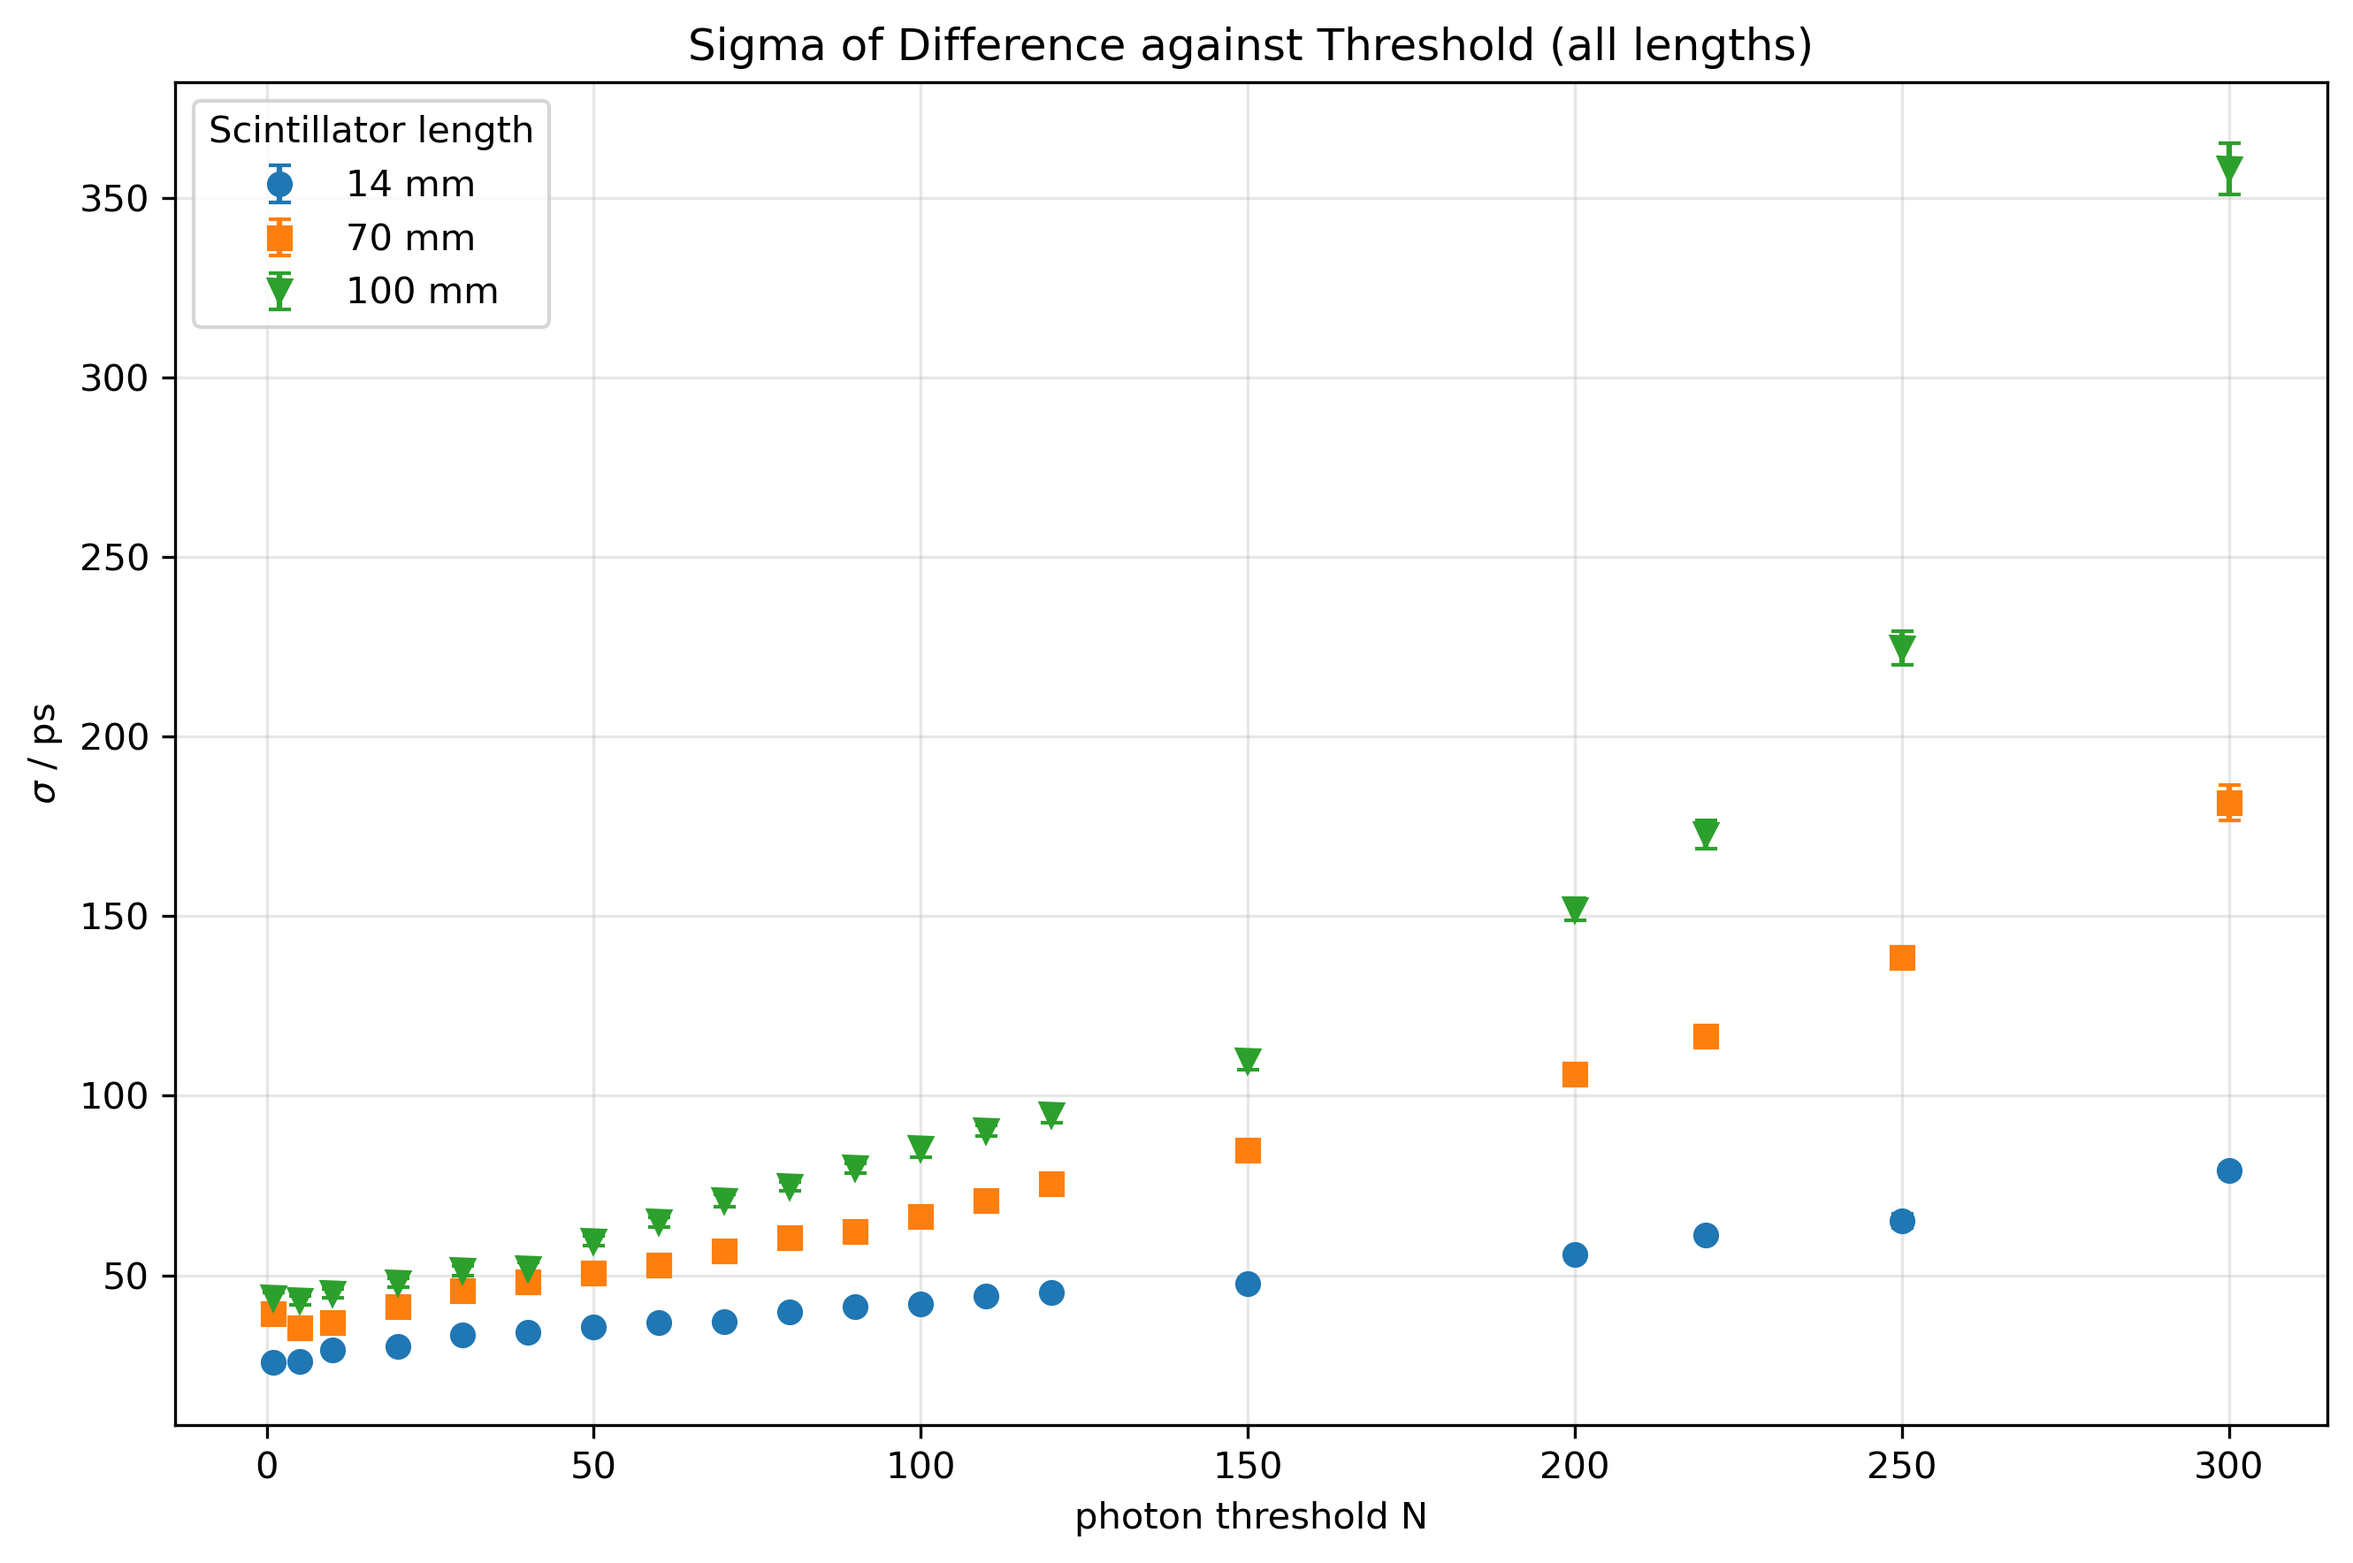
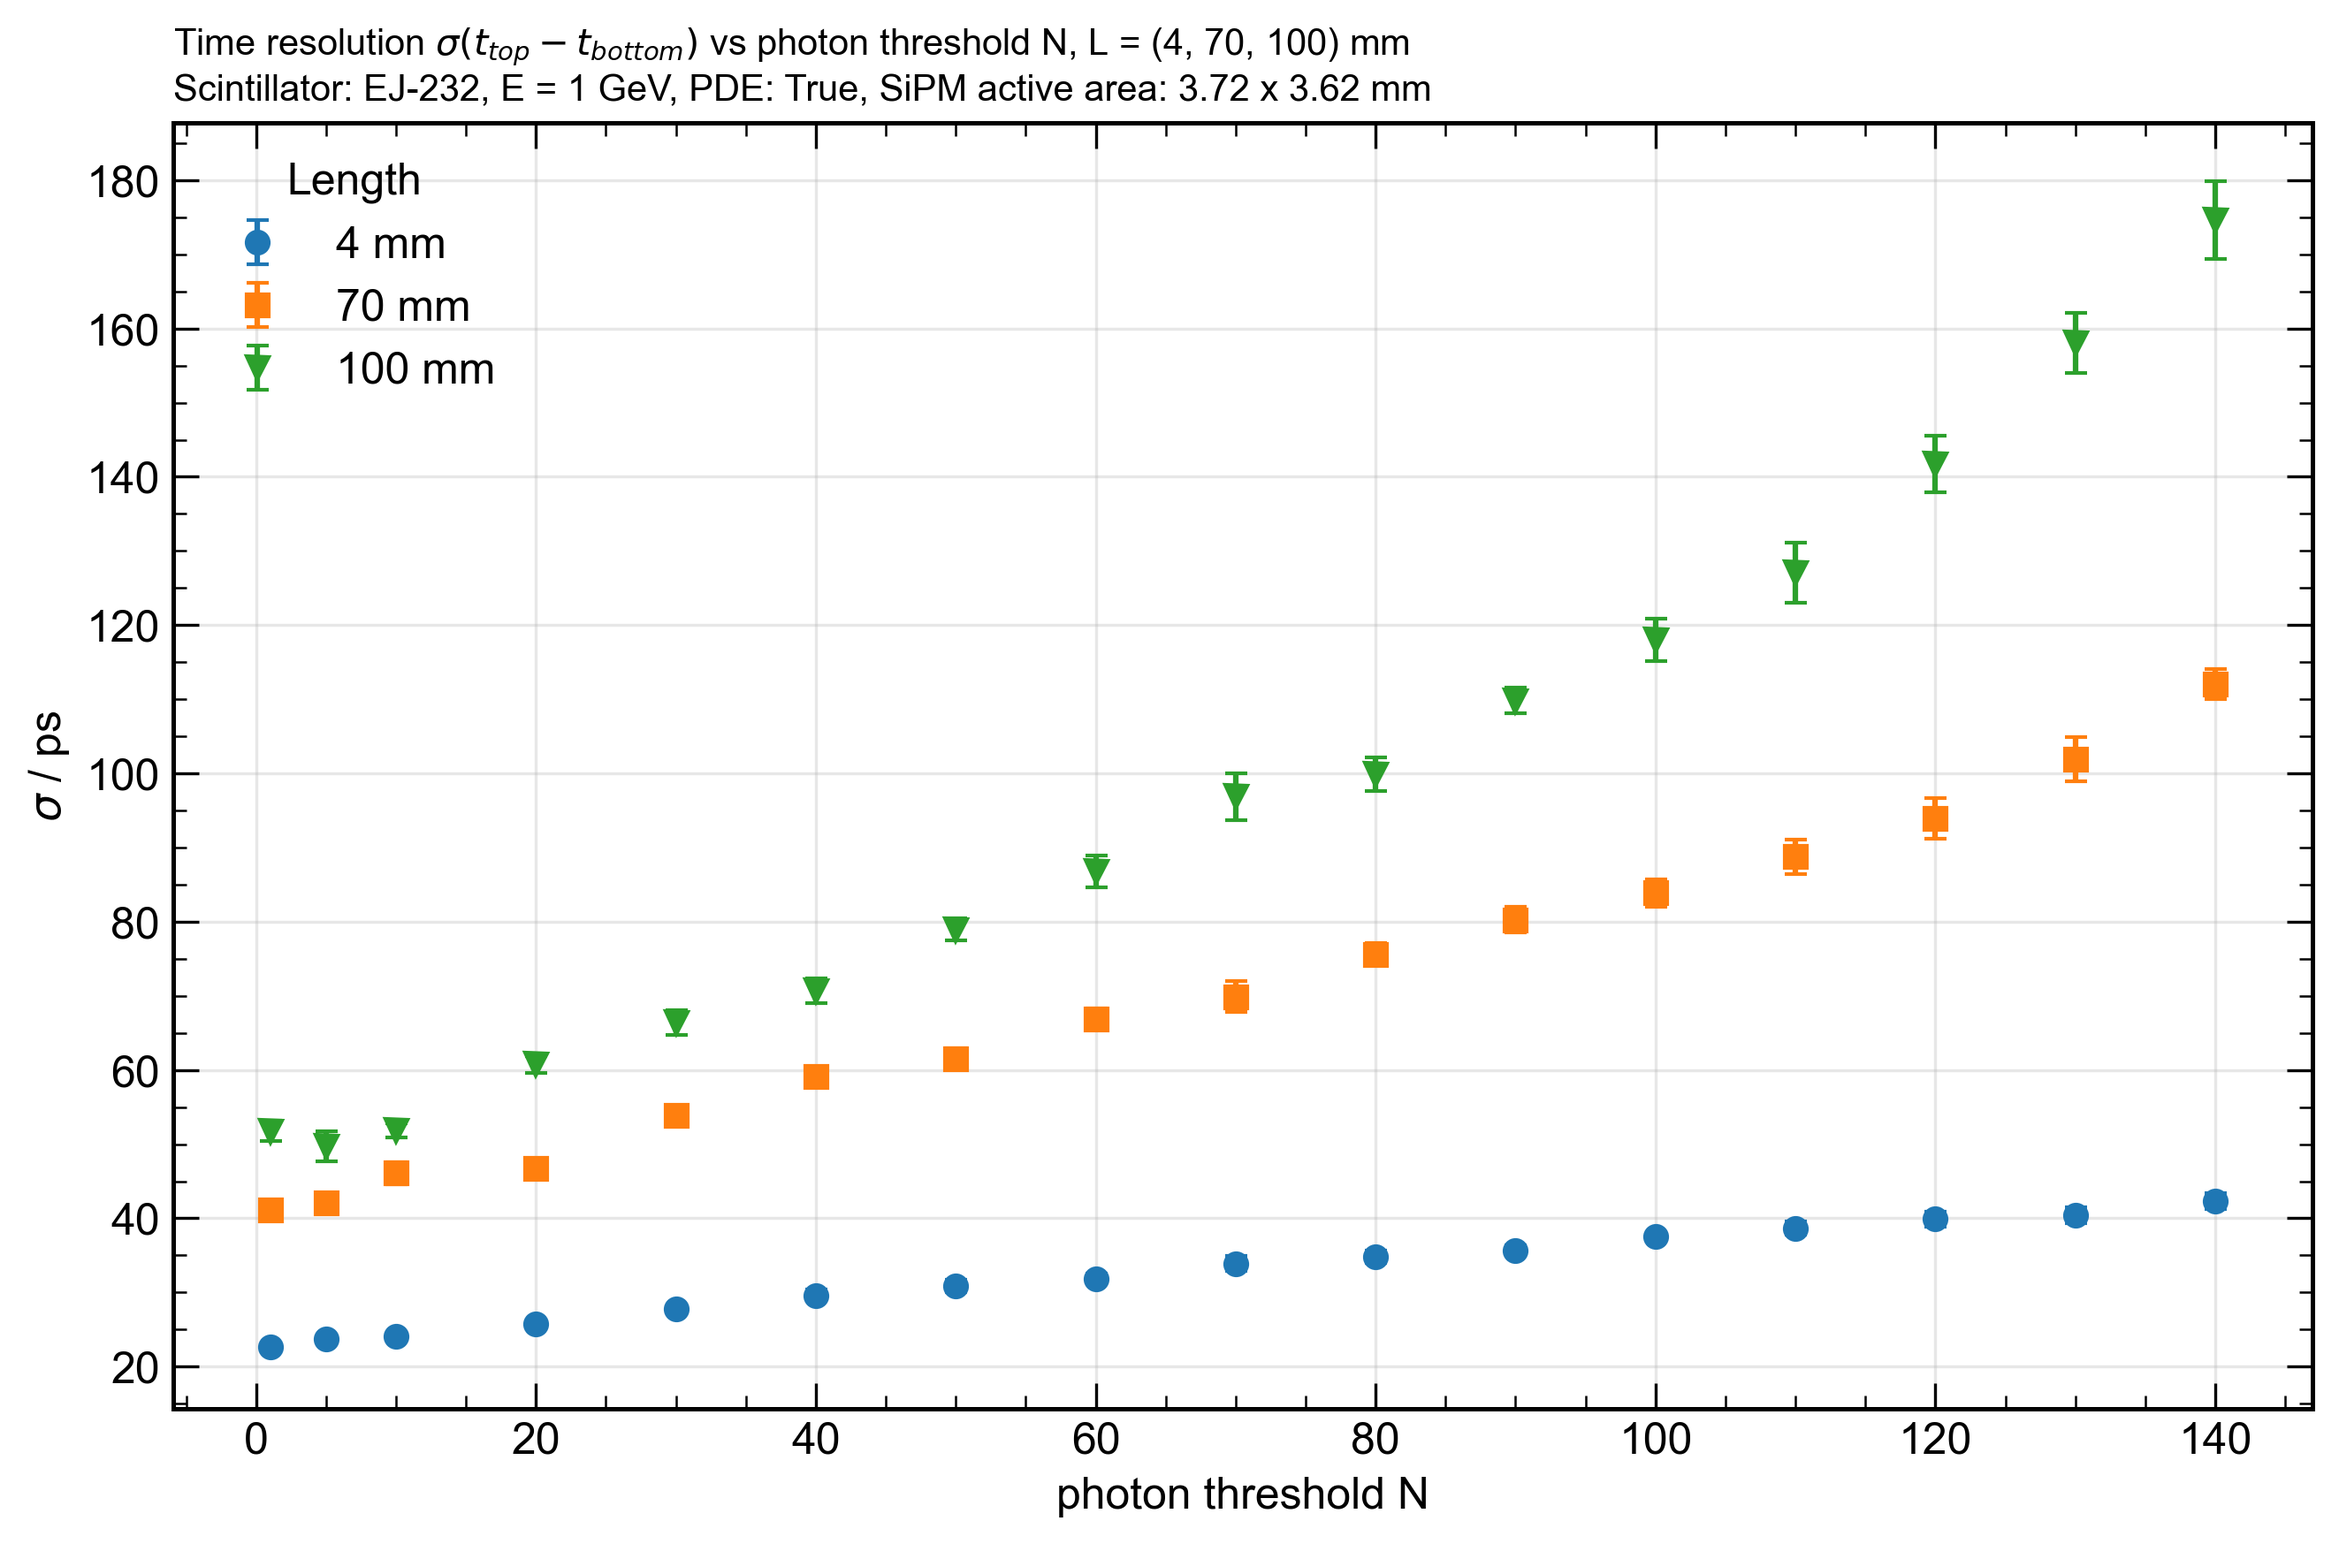
new

diff --git a/threshold/run.py b/threshold/run.py
@@ -11,6 +11,41 @@ from scipy.stats import moyal
 SCRIPT_DIR = Path(__file__).resolve().parent
 DATA_DIR = Path("/home/derksen/Desktop/geant4/Scintillation_Simulation_build/data")
 
+# Setup-Angaben für die Plot-Titel, bitte anpassen
+SCINTILLATOR_TYPE = "EJ-232"
+ENERGY = "1 GeV"
+SIPM_ACTIVE_AREA = "3.72 x 3.62 mm"
+PDE_APPLIED = True
+
+plt.rcParams.update({
+    "font.family": "sans-serif",
+    "font.sans-serif": ["Helvetica", "Arial", "Liberation Sans", "DejaVu Sans"],
+    "font.size": 12,
+    "axes.linewidth": 1.2,
+    "axes.grid": True,
+    "grid.alpha": 0.3,
+    "xtick.direction": "in",
+    "ytick.direction": "in",
+    "xtick.top": True,
+    "ytick.right": True,
+    "xtick.minor.visible": True,
+    "ytick.minor.visible": True,
+    "xtick.major.size": 7,
+    "ytick.major.size": 7,
+    "xtick.minor.size": 3.5,
+    "ytick.minor.size": 3.5,
+    "legend.frameon": False,
+    "errorbar.capsize": 3,
+})
+
+def plot_title(what, length=None):
+    # Erste Zeile: Inhalt, zweite Zeile: Setup
+    setup = [f"Scintillator: {SCINTILLATOR_TYPE}", f"E = {ENERGY}"]
+    if length is not None:
+        setup.append(f"L = {length:g} mm")
+    setup += [f"PDE: {PDE_APPLIED}", f"SiPM active area: {SIPM_ACTIVE_AREA}"]
+    return f"{what}\n" + ", ".join(setup)
+
 PLOTS_DIR = SCRIPT_DIR / "plots"
 PLOTS_DIR.mkdir(exist_ok=True)
 
@@ -31,7 +66,7 @@ def save_plot(filename=None):
         bbox_inches="tight"
     )
 
-files = ["4mm.csv", "14mm.csv", "100mm.csv", "70mm.csv", "140mm.csv", "180mm.csv"]
+files = ["4mm.csv", "70mm.csv", "100mm.csv"]
 
 all_valid_fits = {}
 
@@ -43,23 +78,23 @@ if missing_files:
     print(f"Skipping missing files in {DATA_DIR}: {', '.join(missing_files)}")
 files = [name for name in files if name not in missing_files]
 
-scatter_specs = [
-    ("TrackLenght", "track length / mm", "tracklength"),
-    ("NSideReflections", "number of side reflections", "side_reflections"),
-]
-scatter_n_cols = 3
-scatter_n_rows = int(np.ceil(len(files) / scatter_n_cols))
-scatter_figures = {}
-
-for column, _, _ in scatter_specs:
-    scatter_fig, scatter_axes = plt.subplots(
-        scatter_n_rows, scatter_n_cols,
-        figsize=(5 * scatter_n_cols, 4 * scatter_n_rows),
-        sharex=True,
-        sharey=True,
-        squeeze=False,
-    )
-    scatter_figures[column] = (scatter_fig, scatter_axes.ravel())
+# scatter_specs = [
+#     ("TrackLenght", "track length / mm", "tracklength"),
+#     ("NSideReflections", "number of side reflections", "side_reflections"),
+# ]
+# scatter_n_cols = 3
+# scatter_n_rows = int(np.ceil(len(files) / scatter_n_cols))
+# scatter_figures = {}
+#
+# for column, _, _ in scatter_specs:
+#     scatter_fig, scatter_axes = plt.subplots(
+#         scatter_n_rows, scatter_n_cols,
+#         figsize=(5 * scatter_n_cols, 4 * scatter_n_rows),
+#         sharex=True,
+#         sharey=True,
+#         squeeze=False,
+#     )
+#     scatter_figures[column] = (scatter_fig, scatter_axes.ravel())
 
 for file_index, file in enumerate(files):
     CSV_PATH = DATA_DIR / file
@@ -227,9 +262,7 @@ for file_index, file in enumerate(files):
 
     print("Data loaded!")
 
-    cumulative_photon_thresholds = [
-        1, 5, 10, 20, 30, 40, 50, 60, 70, 80, 90, 100, 110, 120, 150, 200, 220, 250, 300
-    ]
+    cumulative_photon_thresholds = [1, 5] + list(range(10, 141, 10))
 
     # Define functions for Gaussian fitting and threshold computation
 
@@ -350,7 +383,10 @@ for file_index, file in enumerate(files):
 
     # Plot Sigma of Difference against Threshold
 
-    fig, ax_sigma = plt.subplots(figsize=(7, 5))
+    fig, (ax_sigma, ax_table) = plt.subplots(
+        1, 2, figsize=(11, 5), gridspec_kw={"width_ratios": [3, 1.3]}
+    )
+    ax_table.axis("off")
 
     ax_sigma.errorbar(
         valid_fits["Threshold"],
@@ -365,10 +401,13 @@ for file_index, file in enumerate(files):
         data["EventID"] == first_event_id, "ScintillatorLenght"
     ].iloc[0]
     all_valid_fits[float(scintillator_length)] = valid_fits
-    ax_sigma.set_title(f"Sigma of Difference against Threshold (Length = {scintillator_length} mm)")
-    ax_sigma.set_xlabel("photon threshold N")
-    ax_sigma.set_ylabel("$\sigma$ / ps")
-    ax_sigma.grid(alpha=0.3)
+    ax_sigma.set_title(
+        plot_title(r"Time resolution $\sigma(t_{top} - t_{bottom})$ vs photon threshold", scintillator_length),
+        loc="left",
+        fontsize=10,
+    )
+    ax_sigma.set_xlabel("threshold N / a.u.")
+    ax_sigma.set_ylabel(r"$\sigma$ / ps")
 
     stats_text = " N    Mean / ns    Sigma / ps    Err / ps\n"
     stats_text += "-" * 44 + "\n"
@@ -381,24 +420,15 @@ for file_index, file in enumerate(files):
             f"{row['SigmaErr_ps']:8.2f}\n"
         )
 
-    ax_sigma.text(
-        0.02, 0.98,
+    ax_table.text(
+        0.0, 1.0,
         stats_text,
-        transform=ax_sigma.transAxes,
-        fontsize=7,
+        transform=ax_table.transAxes,
+        fontsize=8,
         fontfamily="monospace",
         verticalalignment="top",
         horizontalalignment="left",
-        bbox=dict(
-            boxstyle="round",
-            facecolor="white",
-            alpha=0.85
-        )
     )
-
-    # Platz oben für die Tabelle: Daten belegen nur die untere Hälfte
-    y_low, y_high = ax_sigma.get_ylim()
-    ax_sigma.set_ylim(y_low, y_low + (y_high - y_low) / 0.5)
 
     fig.tight_layout()
     save_plot(f"threshold_difference_gauss_sigma_{scintillator_length}mm")
@@ -406,28 +436,28 @@ for file_index, file in enumerate(files):
 
     print(f"Finished plotting threshold difference Gaussian sigma: {scintillator_length} mm")
 
-    for column, x_label, _ in scatter_specs:
-        ax = scatter_figures[column][1][file_index]
-        ax.scatter(data[column], data["TimeSinceZero"], s=2, alpha=0.1)
-        ax.set_title(f"Length = {scintillator_length:g} mm")
-        ax.set_xlabel(x_label)
-        ax.set_ylabel("time since zero / ns")
-        ax.tick_params(labelbottom=True, labelleft=True)
-        ax.grid(alpha=0.3)
+    # for column, x_label, _ in scatter_specs:
+    #     ax = scatter_figures[column][1][file_index]
+    #     ax.scatter(data[column], data["TimeSinceZero"], s=2, alpha=0.1)
+    #     ax.set_title(f"Length = {scintillator_length:g} mm")
+    #     ax.set_xlabel(x_label)
+    #     ax.set_ylabel("time since zero / ns")
+    #     ax.tick_params(labelbottom=True, labelleft=True)
+    #     ax.grid(alpha=0.3)
 
     difference_fits.round(4).to_string(index=False)
 
-for column, x_label, name in scatter_specs:
-    scatter_fig, scatter_axes = scatter_figures[column]
-
-    for unused_ax in scatter_axes[len(files):]:
-        unused_ax.set_visible(False)
-
-    scatter_fig.suptitle(f"Arrival time vs {x_label.split(' /')[0]}")
-    scatter_fig.tight_layout()
-    plt.figure(scatter_fig.number)
-    save_plot(f"time_vs_{name}_all_lengths")
-    plt.close(scatter_fig)
+# for column, x_label, name in scatter_specs:
+#     scatter_fig, scatter_axes = scatter_figures[column]
+#
+#     for unused_ax in scatter_axes[len(files):]:
+#         unused_ax.set_visible(False)
+#
+#     scatter_fig.suptitle(f"Arrival time vs {x_label.split(' /')[0]}")
+#     scatter_fig.tight_layout()
+#     plt.figure(scatter_fig.number)
+#     save_plot(f"time_vs_{name}_all_lengths")
+#     plt.close(scatter_fig)
 
 # Feste Farbe und Marker pro Länge, damit sie in beiden Plots gleich sind
 length_styles = {
@@ -451,11 +481,10 @@ def plot_lengths(lengths, title, filename):
             label=f"{length:g} mm",
         )
 
-    ax.set_title(title)
+    ax.set_title(plot_title(title), loc="left", fontsize=10)
     ax.set_xlabel("photon threshold N")
     ax.set_ylabel(r"$\sigma$ / ps")
-    ax.grid(alpha=0.3)
-    ax.legend(title="Scintillator length")
+    ax.legend(title="Length")
 
     fig.tight_layout()
     save_plot(filename)
@@ -464,14 +493,6 @@ def plot_lengths(lengths, title, filename):
 # Alle Längen in einem Plot
 plot_lengths(
     sorted(all_valid_fits),
-    "Sigma of Difference against Threshold (all lengths)",
+    r"Time resolution $\sigma(t_{top} - t_{bottom})$ vs photon threshold N, L = (4, 70, 100) mm",
     "threshold_difference_gauss_sigma_all_lengths",
-)
-
-# Auswahl an Längen
-selected_lengths = [14.0, 70.0, 140.0, 180.0]
-plot_lengths(
-    [length for length in selected_lengths if length in all_valid_fits],
-    "Sigma of Difference against Threshold (selected lengths)",
-    "threshold_difference_gauss_sigma_selected_lengths",
 )
